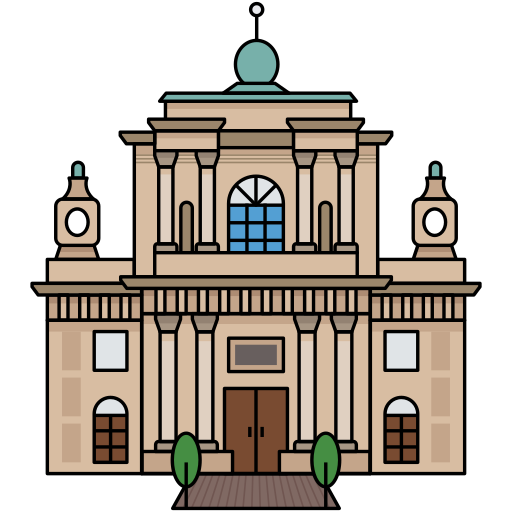
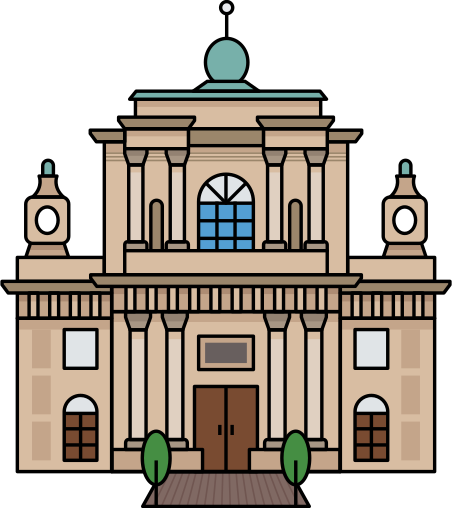
Add Level 7 - Poland, the secret level
Three stars on every level before it, Ireland included - so the secret
level cannot even be attempted until the bonus one has been mastered. It
reuses the bonus_stars mechanism unchanged; only the number differs.

Beaver in the rare fast 10-point slot, wolf 5, squirrel 2, hedgehog 1,
the tram as the lower hazard, St Joseph's as the landmark, and the flag's
two colours: red field, white score and timer.

The seventh level broke the level select again. The rows tightened as the
list grew but ignored how tall a row actually is, so 45px of spacing ran
the seventh row into the sixth. They are now fitted to the band under the
heading from the row font's real height and centred in what is left. Past
about eight levels even that runs out and the screen will need a smaller
row font or paging.

St Joseph's art was trimmed to its silhouette, per the rule the Cliffs of
Moher taught: transparent padding is solid, so it is invisible death.

Claude-Session: https://claude.ai/code/session_01SZ7dLFGfTXF1Fvau3EEy4Z

diff --git a/main.py b/main.py
@@ -504,10 +504,57 @@ IRELAND_LEVEL = {
     ],
 }
 
+# Level 7, the second and harder bonus round. The beaver takes the rare
+# fast 10-point slot and the wolf the common 5-point slot; the tram is the
+# lower-half hazard (jet keeps the upper half) until there is Polish
+# vehicle art to swap in.
+POLAND_LEVEL = {
+    "name": "Level 7 - Poland",
+    # The secret level: three stars on every level before it, Ireland
+    # included - so it cannot even be attempted until that one is beaten
+    "bonus_stars": 3,
+    "point_goal": 100,
+    "highscore_file": "PolandHighscore.txt",
+    "time_limit": 30,
+    "two_star_score": 150,
+    "three_star_score": 175,
+    # The flag is only two colours: red field, white score and timer
+    "background_color": (214, 33, 61),
+    "score_color": (255, 255, 255),
+    "timer_color": (255, 255, 255),
+    "flag": "images/poland.png",
+    "landmark": "images/st-joseph.png",
+    "landmark_name": "St Joseph's",
+    "animals": {
+        "images/hedgehog.png": {"effect": "points", "value": 1, "legend": "Hedgehog +1"},
+        "images/squirrel.png": {"effect": "points", "value": 2, "legend": "Squirrel +2"},
+        "images/wolf.png": {"effect": "points", "value": 5, "legend": "Wolf +5"},
+        "images/beaver.png": {"effect": "points", "value": 10, "legend": "Beaver +10",
+                            "speed": 10, "recycle_x": 3200},
+        "images/jet-fighter.png": {"effect": "deadly", "value": None, "legend": "-1 life",
+                           "speed": 12, "recycle_x": 3200, "y_range": (120, 310)},
+        "images/paris-tram.png": {"effect": "deadly", "value": None, "legend": "-1 life",
+                           "y_range": (310, 500)},
+        "images/shield.png": {"effect": "shield", "value": None, "legend": "Single use shield"},
+    },
+    "animal_images": ["images/hedgehog.png", "images/squirrel.png", "images/wolf.png",
+                      "images/jet-fighter.png", "images/paris-tram.png"],
+    "rare_animal_images": ["images/shield.png", "images/beaver.png"],
+    "legend_layout": [
+        ("images/beaver.png", (30, 30), (100, 40)),
+        ("images/wolf.png", (30, 130), (100, 140)),
+        ("images/squirrel.png", (30, 230), (100, 240)),
+        ("images/hedgehog.png", (30, 330), (100, 340)),
+        ("images/jet-fighter.png", (910, 30), (790, 40)),
+        ("images/paris-tram.png", (910, 130), (790, 140)),
+        ("images/shield.png", (340, 400), (420, 410)),
+    ],
+}
+
 # Adventure's world tour, one country per level. More countries append
 # here; continent chapters will group lists like this one.
 ADVENTURE_LEVELS = [UK_LEVEL, FRANCE_LEVEL, ITALY_LEVEL, SPAIN_LEVEL, GERMANY_LEVEL,
-                    IRELAND_LEVEL]
+                    IRELAND_LEVEL, POLAND_LEVEL]
 
 # A mode is one rules configuration for a round: how many players, which
 # levels, and whether the round's time counts for the high scores. The mode
@@ -932,17 +979,26 @@ def runLevelSelect():
                 for i in range(len(mode["levels"]))]
     selected = level_index if unlocked[min(level_index, len(unlocked) - 1)] else 0
     star_img = pygame.transform.smoothscale(loadImage("images/001-star.png"), (28, 28))
-    # Rows run from y=250 to the last one at y=520, at the classic 90px
-    # spacing while that fits and tightening as more countries are added -
-    # a fixed 90 walked the fifth level off the bottom of the screen
-    row_gap = min(90, (520 - 250) // max(len(mode["levels"]) - 1, 1))
+    # The rows are fitted to the band below the heading rather than placed
+    # at fixed offsets: the classic 90px spacing while that fits, tightening
+    # as countries are added, and the whole block centred in what is left.
+    # A fixed 90 walked the fifth level off the bottom of the screen; the
+    # tightening version then ran the seventh into the sixth, because it
+    # ignored how tall a row actually is. Past about eight levels even this
+    # runs out and the screen needs a smaller row font or paging
+    BAND_TOP, BAND_BOTTOM = 190, 560
+    row_height = space_font.get_height()
+    row_count = len(mode["levels"])
+    row_gap = min(90, (BAND_BOTTOM - BAND_TOP - row_height) // max(row_count - 1, 1))
+    block_height = row_gap * (row_count - 1) + row_height
+    rows_top = BAND_TOP + (BAND_BOTTOM - BAND_TOP - block_height) // 2
     while True:
         pygame.display.flip()
         screen.fill((0, 0, 0))
         heading = title_font.render("Choose a level", True, (199, 199, 199))
         screen.blit(heading, (500 - heading.get_width() // 2, 60))
         for i, lvl in enumerate(mode["levels"]):
-            row_y = 250 + i * row_gap
+            row_y = rows_top + i * row_gap
             if not unlocked[i]:
                 color = (70, 70, 70)
             elif i == selected:

diff --git a/CLAUDE.md b/CLAUDE.md
@@ -18,11 +18,11 @@ Pygame game in `main.py` (~550 lines) plus `sounds.py` (sound-effect synthesis, 
 
 **Modes are table-driven.** `MODES` is a list of rules dicts — `name`, `tagline`, `player_count`, `lives` (starting lives per player, `None` for modes without the lives concept), `ends_on_goal` (does reaching `level["point_goal"]` end the round immediately, or does the player keep scoring against it — Speed Run's race is `True`, Adventure's chase is `False`), `saves_highscore`, `score_type` (`"time"`, lower is better, or `"points"`, higher is better), `progress_file`, `levels` — and the global `mode` points at the active one (the high-score file is a per-*level* key, not a mode key; see below). The start screen picks it (up/down move the highlight, ENTER or SPACE confirms and calls `newRound()` so the players list is rebuilt at the new seat count); the instructions screen then draws the mode's `name`, while the level-info screen behind it draws one controls entry per seat and the level's records only when `saves_highscore` is true. The chosen mode survives rounds and both end-screen restart keys — nothing resets it. **A rule that varies by mode belongs in the `MODES` table, not in an `if` on the mode name.**
 
-**Levels are content tables.** A level dict carries everything content-ish about a round: `name`, `point_goal`, the `animals` effects table, the `animal_images`/`rare_animal_images` spawn pools and the `legend_layout`. Eight keys are optional and default to off: `two_star_score` (the Adventure end screen's 2-star threshold, see below; defaults to double `point_goal`), `time_limit` (seconds; running out ends the round the same way running out of lives does — *unless* the level also has a `landmark`, see below), `background_color` (a fixed RGB triple; without it `newRound()` picks a random one from `colours`, as before), `score_color`/`timer_color` (RGB triples read at every render site — `Player.draw_hud()`, both branches of `runGame()`'s timer, and the end screen's score — falling back to the player's own colour and black respectively when unset; `UK_LEVEL` colours both Union-Jack blue, `FRANCE_LEVEL` colours the score red and the timer white against its navy background), `flag` (an image path shown next to the level name on the instructions screen and next to the timer in `runGame()`, as a centred pair with the flag vertically centred against whichever of the two is taller — used by `UK_LEVEL`'s Union Jack), and the `landmark`/`landmark_name` pair (an image path and display name — Big Ben, the Eiffel Tower, the Brandenburg Gate, the Cliffs of Moher). A landmarked level's clock isn't a hard cutoff: once `time_limit` elapses, `updateGame()` spawns a fixed `Landmark` (its image scaled to half native size) snug against the bottom-left corner instead of ending the round outright — and stops replacing recycled animals from that point on, so the field thins out rather than keeps spawning. `Landmark` is a genuine obstacle, not a target: its own `rect` is the building (solid — touching it crashes), and `sky_rect` is the strip of open air directly above the roofline (clearing it is how you finish). **The whole image box is solid, so landmark art must be trimmed to its silhouette** — the Cliffs of Moher arrived as a 512×512 landscape scene whose cloud, birds and empty background were all solid, which meant crashing into what looked like open sky; it was cropped to 296×446, the cliff's own bounds. Collision is never per-pixel, so transparent padding in the file is invisible death. Both are checked in `updateGame()`; clearing sets `landmark_cleared` (read by `runGame()` as an immediate round-end, the same way it reads lives/score elsewhere) and crashing sets `landmark_crashed` *and* force-sets that player's `lives` to 0 with the normal death explosion — which means the round then ends through the ordinary "out of lives" check with no extra case needed. `runEndScreen()` reads `landmark_crashed` to override `reached_goal` to `False` unconditionally: hitting the landmark is always FAILED regardless of score, exactly like running out of lives any other way, and its subtitle reads "Crashed into `landmark_name`!" instead of the generic reasons. The HUD timer hands off to a "Fly over `landmark_name`!" prompt once it spawns. A level with `time_limit` but no `landmark` keeps the plain old behaviour (the clock ends it directly), so this is opt-in per level. Speed Run's content is `CLASSIC_LEVEL` (name `None`, no time limit, random background, no flag); Adventure's is the `ADVENTURE_LEVELS` list — the world tour, one country per level: `UK_LEVEL`, `FRANCE_LEVEL`, `ITALY_LEVEL`, `SPAIN_LEVEL`, `GERMANY_LEVEL`, `IRELAND_LEVEL`; more countries append there, and continent chapters will group such lists. Each country reuses the same cast shape — a 1-point hedgehog, a 2-point small mammal, a 5-point common animal, a rare fast 10-pointer, the jet in the top half and a road/rail hazard in the bottom half, plus the shield — swapping in national animals and vehicles, so a new country is a table edit rather than new code. All of them share the 30s limit and the 100 goal, and each takes its palette from its flag: UK white with Union-Jack blue, France navy like the football kit, Italy green, Spain red with gold score, Germany a gold field with a red score and black timer, Ireland a tricolour green field with an orange score and white timer. The global `level` points at the active one, set in `newRound()` as `mode["levels"][level_index]` (see `level_index` below). `runGame()`/`runEndScreen()` read `level["point_goal"]` for the win check (only when `mode["ends_on_goal"]` is true — Adventure's goal doesn't end the round, it's just the number the player is chasing past) and `level["time_limit"]` for the timeout check; the instructions screen's third line is `level["name"]` when set (Adventure's countries), else the mode tagline. **Content that varies by level (animals, values, goals, time limits, background, flag, landmark, and per the roadmap, future spawn scripts/hazards) belongs in the level dict; rules that vary by mode stay in `MODES`.**
+**Levels are content tables.** A level dict carries everything content-ish about a round: `name`, `point_goal`, the `animals` effects table, the `animal_images`/`rare_animal_images` spawn pools and the `legend_layout`. Eight keys are optional and default to off: `two_star_score` (the Adventure end screen's 2-star threshold, see below; defaults to double `point_goal`), `time_limit` (seconds; running out ends the round the same way running out of lives does — *unless* the level also has a `landmark`, see below), `background_color` (a fixed RGB triple; without it `newRound()` picks a random one from `colours`, as before), `score_color`/`timer_color` (RGB triples read at every render site — `Player.draw_hud()`, both branches of `runGame()`'s timer, and the end screen's score — falling back to the player's own colour and black respectively when unset; `UK_LEVEL` colours both Union-Jack blue, `FRANCE_LEVEL` colours the score red and the timer white against its navy background), `flag` (an image path shown next to the level name on the instructions screen and next to the timer in `runGame()`, as a centred pair with the flag vertically centred against whichever of the two is taller — used by `UK_LEVEL`'s Union Jack), and the `landmark`/`landmark_name` pair (an image path and display name — Big Ben, the Eiffel Tower, the Brandenburg Gate, the Cliffs of Moher, St Joseph's). A landmarked level's clock isn't a hard cutoff: once `time_limit` elapses, `updateGame()` spawns a fixed `Landmark` (its image scaled to half native size) snug against the bottom-left corner instead of ending the round outright — and stops replacing recycled animals from that point on, so the field thins out rather than keeps spawning. `Landmark` is a genuine obstacle, not a target: its own `rect` is the building (solid — touching it crashes), and `sky_rect` is the strip of open air directly above the roofline (clearing it is how you finish). **The whole image box is solid, so landmark art must be trimmed to its silhouette** — the Cliffs of Moher arrived as a 512×512 landscape scene whose cloud, birds and empty background were all solid, which meant crashing into what looked like open sky; it was cropped to 296×446, the cliff's own bounds. Collision is never per-pixel, so transparent padding in the file is invisible death. Both are checked in `updateGame()`; clearing sets `landmark_cleared` (read by `runGame()` as an immediate round-end, the same way it reads lives/score elsewhere) and crashing sets `landmark_crashed` *and* force-sets that player's `lives` to 0 with the normal death explosion — which means the round then ends through the ordinary "out of lives" check with no extra case needed. `runEndScreen()` reads `landmark_crashed` to override `reached_goal` to `False` unconditionally: hitting the landmark is always FAILED regardless of score, exactly like running out of lives any other way, and its subtitle reads "Crashed into `landmark_name`!" instead of the generic reasons. The HUD timer hands off to a "Fly over `landmark_name`!" prompt once it spawns. A level with `time_limit` but no `landmark` keeps the plain old behaviour (the clock ends it directly), so this is opt-in per level. Speed Run's content is `CLASSIC_LEVEL` (name `None`, no time limit, random background, no flag); Adventure's is the `ADVENTURE_LEVELS` list — the world tour, one country per level: `UK_LEVEL`, `FRANCE_LEVEL`, `ITALY_LEVEL`, `SPAIN_LEVEL`, `GERMANY_LEVEL`, `IRELAND_LEVEL`, `POLAND_LEVEL`; more countries append there, and continent chapters will group such lists. Each country reuses the same cast shape — a 1-point hedgehog, a 2-point small mammal, a 5-point common animal, a rare fast 10-pointer, the jet in the top half and a road/rail hazard in the bottom half, plus the shield — swapping in national animals and vehicles, so a new country is a table edit rather than new code. All of them share the 30s limit and the 100 goal, and each takes its palette from its flag: UK white with Union-Jack blue, France navy like the football kit, Italy green, Spain red with gold score, Germany a gold field with a red score and black timer, Ireland a tricolour green field with an orange score and white timer, Poland a red field with white text. The palette space is getting crowded — Ireland's green is close to Italy's and Poland's red to Spain's; the flags and the animal casts are what tell them apart in play. The global `level` points at the active one, set in `newRound()` as `mode["levels"][level_index]` (see `level_index` below). `runGame()`/`runEndScreen()` read `level["point_goal"]` for the win check (only when `mode["ends_on_goal"]` is true — Adventure's goal doesn't end the round, it's just the number the player is chasing past) and `level["time_limit"]` for the timeout check; the instructions screen's third line is `level["name"]` when set (Adventure's countries), else the mode tagline. **Content that varies by level (animals, values, goals, time limits, background, flag, landmark, and per the roadmap, future spawn scripts/hazards) belongs in the level dict; rules that vary by mode stay in `MODES`.**
 
 **Campaign position is `level_index`, a global next to `mode`.** It survives rounds the same way `mode` does: unchanged on a replay (`newRound()` with no other change), reset to 0 whenever a mode is freshly chosen on the start screen, set by the level select screen, and advanced by the end screen's next-level key. `newRound()` clamps it to `len(mode["levels"]) - 1` and reads `level = mode["levels"][level_index]`. Speed Run's one-entry `levels` list means `level_index` is always 0 there in practice.
 
-**Campaign progress is a star rating per level, persisted in `mode["progress_file"]`** (`AdventureProgress.txt`, gitignored player data like the highscore files; `None` for Speed Run, which has no campaign). `loadProgress(mode)`/`saveProgress(mode, stars)` read/write one 0–3 int per level, space-separated, padded with zeros so newly appended levels arrive uncompleted and degrading to all-zeros on missing/corrupt files. Stars are computed once in `runEndScreen()`: **1 star = reach `point_goal`, 2 = reach the level's `two_star_score`, 3 = reach it without losing a life** (`players[0].lives == mode["lives"]`). `two_star_score` is an optional level key (UK and France both set it to 150) defaulting to double `point_goal` when a level doesn't set one. Only a *better* rating is saved — a worse replay never downgrades. One star is also the unlock bar: level *i* is playable once level *i−1* has ≥1 star — except for a **hidden bonus level**, which carries the optional `bonus_stars` key and stays locked until *every* level before it has at least that many stars (`IRELAND_LEVEL` sets it to 2). `levelUnlocked(index, levels, progress)` is the single place that knows both rules, and both the level select and the end screen call it. A locked bonus level gives nothing away: the level select draws it as a dimmed `?` and the words "Bonus Level" instead of its flag and country, and the end screen treats it as *no* next level at all — so it is never named there and `N` cannot walk into it. The end screen computes `has_next` from the progress the round just wrote, so the run that completes the requirement reveals the bonus immediately. The end screen draws the earned stars bright and the missing ones ghosted (alpha) under the score, so the player sees what was left on the table.
+**Campaign progress is a star rating per level, persisted in `mode["progress_file"]`** (`AdventureProgress.txt`, gitignored player data like the highscore files; `None` for Speed Run, which has no campaign). `loadProgress(mode)`/`saveProgress(mode, stars)` read/write one 0–3 int per level, space-separated, padded with zeros so newly appended levels arrive uncompleted and degrading to all-zeros on missing/corrupt files. Stars are computed once in `runEndScreen()`: **1 star = reach `point_goal`, 2 = reach the level's `two_star_score`, 3 = reach it without losing a life** (`players[0].lives == mode["lives"]`). `two_star_score` is an optional level key (UK and France both set it to 150) defaulting to double `point_goal` when a level doesn't set one. Only a *better* rating is saved — a worse replay never downgrades. One star is also the unlock bar: level *i* is playable once level *i−1* has ≥1 star — except for a **hidden bonus level**, which carries the optional `bonus_stars` key and stays locked until *every* level before it has at least that many stars (`IRELAND_LEVEL` sets it to 2, `POLAND_LEVEL` to 3 — and since Ireland is itself a level before Poland, the secret level cannot be reached until the bonus one has been three-starred too). `levelUnlocked(index, levels, progress)` is the single place that knows both rules, and both the level select and the end screen call it. A locked bonus level gives nothing away: the level select draws it as a dimmed `?` and the words "Bonus Level" instead of its flag and country, and the end screen treats it as *no* next level at all — so it is never named there and `N` cannot walk into it. The end screen computes `has_next` from the progress the round just wrote, so the run that completes the requirement reveals the bonus immediately. The end screen draws the earned stars bright and the missing ones ghosted (alpha) under the score, so the player sees what was left on the table.
 
 **The end screen has two independent layouts, chosen by `mode["player_count"]`.** Two-player (Speed Run) keeps the original design: a per-player WINS!/OUT OF LIVES!/TIME'S UP! line, the elapsed time (the whole point of a race), fixed-position highscores top right. Solo (Adventure) is a redesigned, fully centred column, built with a running `cursor` y-offset incremented by each surface's *real* `get_height()` rather than a guessed constant — impact's glyphs render far taller than their point size suggests, so a hardcoded constant silently overlapped the rows below it the first time this was tried. The solo layout: a SUCCESS!/FAILED banner (gold/red) based on `reached_goal = any(p.score >= level["point_goal"] for p in players)` — the same "did you cross the goal" test that ends Speed Run's race also works as Adventure's win/lose split, since Adventure's round can end via lives or the clock without ever crossing it; a failure-only reason line ("Out of lives!"/"Time's up!"); the score itself, big and centred, in `score_font`; a next-level line that is **always shown but changes meaning** — `"Next: <name>"` (gold, actionable) when the goal was reached and a next level exists, `"Reach N points to unlock <name>"` (dim, informational) when it wasn't, or `"More countries coming soon!"` when there's no next level at all (the only case reachable today, since Adventure has just the one level); the trophy row (icon + caption side by side, not stacked — there's no vertical room to spare) when `trophy` is set; both records on one compact line rather than a stacked pair; and a controls line that only mentions `N: Next Level` when it would actually do something. **The N key only advances `level_index` when `reached_goal and has_next`** — failing a level never unlocks the next one, only replaying it (R) does. No time display on the solo screen: Adventure levels cap at 30s, so it added little.
 
